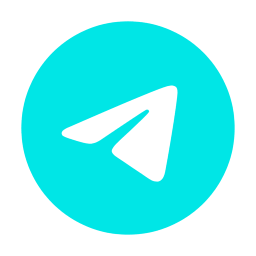
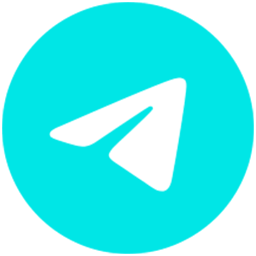
Scaling prototype
* Image size unified
* Version display change
* Scale function prototype

Changed region(s): [[0.0, 0.0, 1.0, 1.0], [0.1875, 0.2812, 0.75, 0.75]]

diff --git a/Minify/__main__.py b/Minify/__main__.py
@@ -35,6 +35,7 @@ def patcher_start():
 
 
 def create_ui():
+    button_size_x, button_size_y = gui.social_button_size
     with ui.window(tag="primary_window"):
         ui.set_primary_window("primary_window", True)
         ui.add_child_window(
@@ -56,39 +57,42 @@ def create_ui():
         )
         ui.add_image_button(
             "discord_texture_tag",
+            tag="button_discord",
             parent="top_bar_left_group",
-            width=21,
-            height=16,
+            width=button_size_x,
+            height=button_size_y,
             callback=lambda: webbrowser.open(mpaths.discord),
         )
         ui.add_image_button(
             "telegram_texture_tag",
-            tag="telegram",
+            tag="button_telegram",
             parent="top_bar_left_group",
-            width=20,
-            height=20,
+            width=button_size_x,
+            height=button_size_y,
             callback=lambda: webbrowser.open(mpaths.telegram),
         )
         ui.add_image_button(
             "git_texture_tag",
+            tag="button_git",
             parent="top_bar_left_group",
-            width=18,
-            height=18,
+            width=button_size_x,
+            height=button_size_y,
             callback=lambda: webbrowser.open(mpaths.github),
         )
         ui.add_image_button(
             "settings_texture_tag",
+            tag="button_settings",
             parent="top_bar_left_group",
-            width=16,
-            height=16,
+            width=button_size_x,
+            height=button_size_y,
             callback=gui.open_settings_menu,
         )
         ui.add_image_button(
             "dev_texture_tag",
-            tag="dev",
+            tag="button_dev",
             parent="top_bar_left_group",
-            width=16,
-            height=16,
+            width=button_size_x,
+            height=button_size_y,
             callback=gui.dev_mode,
         )
         ui.add_text(tag="language_select", parent="top_bar_left_group")
@@ -100,7 +104,6 @@ def create_ui():
             callback=helper.change_output_path,
             fit_width=True,
         )
-        ui.add_text(gui.title, parent="top_bar_left_group")
         ui.add_group(tag="top_bar_right_group", parent="top_bar_main_group", horizontal=True, horizontal_spacing=0)
         ui.add_button(
             parent="top_bar_right_group",
@@ -176,6 +179,7 @@ def create_ui():
             callback=gui.hide_uninstall_popup,
             width=100,
         )
+    ui.add_text(gui.title, tag="version_text", parent="primary_window", color=(80, 80, 80, 255), pos=(6, 380))
 
     ui.add_window(
         tag="mod_menu",
@@ -360,13 +364,28 @@ with ui.font_registry():
         ui.add_font_range(0x0100, 0x017F)  # Turkish set
         ui.add_font_range(0x0370, 0x03FF)  # Greek set
 
+
+def increase_scale():  # prototype
+    height, width = gui.social_button_size
+    height += 14
+    width += 14
+    ui.configure_item("button_discord", height=height, width=width)
+    ui.configure_item("button_telegram", height=height, width=width)
+    ui.configure_item("button_git", height=height, width=width)
+    ui.configure_item("button_dev", height=height, width=width)
+    ui.configure_item("button_settings", height=height, width=width)
+    font = ui.get_alias_id("very_large_font")
+    ui.bind_item_font("primary_window", font)
+    ui.configure_viewport(f"{gui.title}", width=1040, height=700)
+
+
 # Adding mouse handler to ui registry
 with ui.handler_registry():
     ui.add_mouse_drag_handler(tag="drag_handler", button=0, threshold=4, callback=gui.drag_viewport)
     ui.add_mouse_release_handler(button=0, callback=gui.stop_drag_viewport)
     ui.add_key_release_handler(0x20E, callback=gui.close_active_window)
     ui.add_mouse_click_handler(callback=gui.resize)
-
+    ui.add_key_release_handler(0x20, callback=increase_scale)
 
 with ui.texture_registry(show=False):
     w, h, _, d = ui.load_image(os.path.join(mpaths.img_dir, "Discord.png"))

diff --git a/Minify/gui.py b/Minify/gui.py
@@ -51,6 +51,8 @@ viewport_width = 0
 viewport_x = 0
 viewport_y = 0
 
+social_button_size = (18, 18)
+
 # cursor_delta_time = 0
 
 for monitor in screeninfo.get_monitors():
